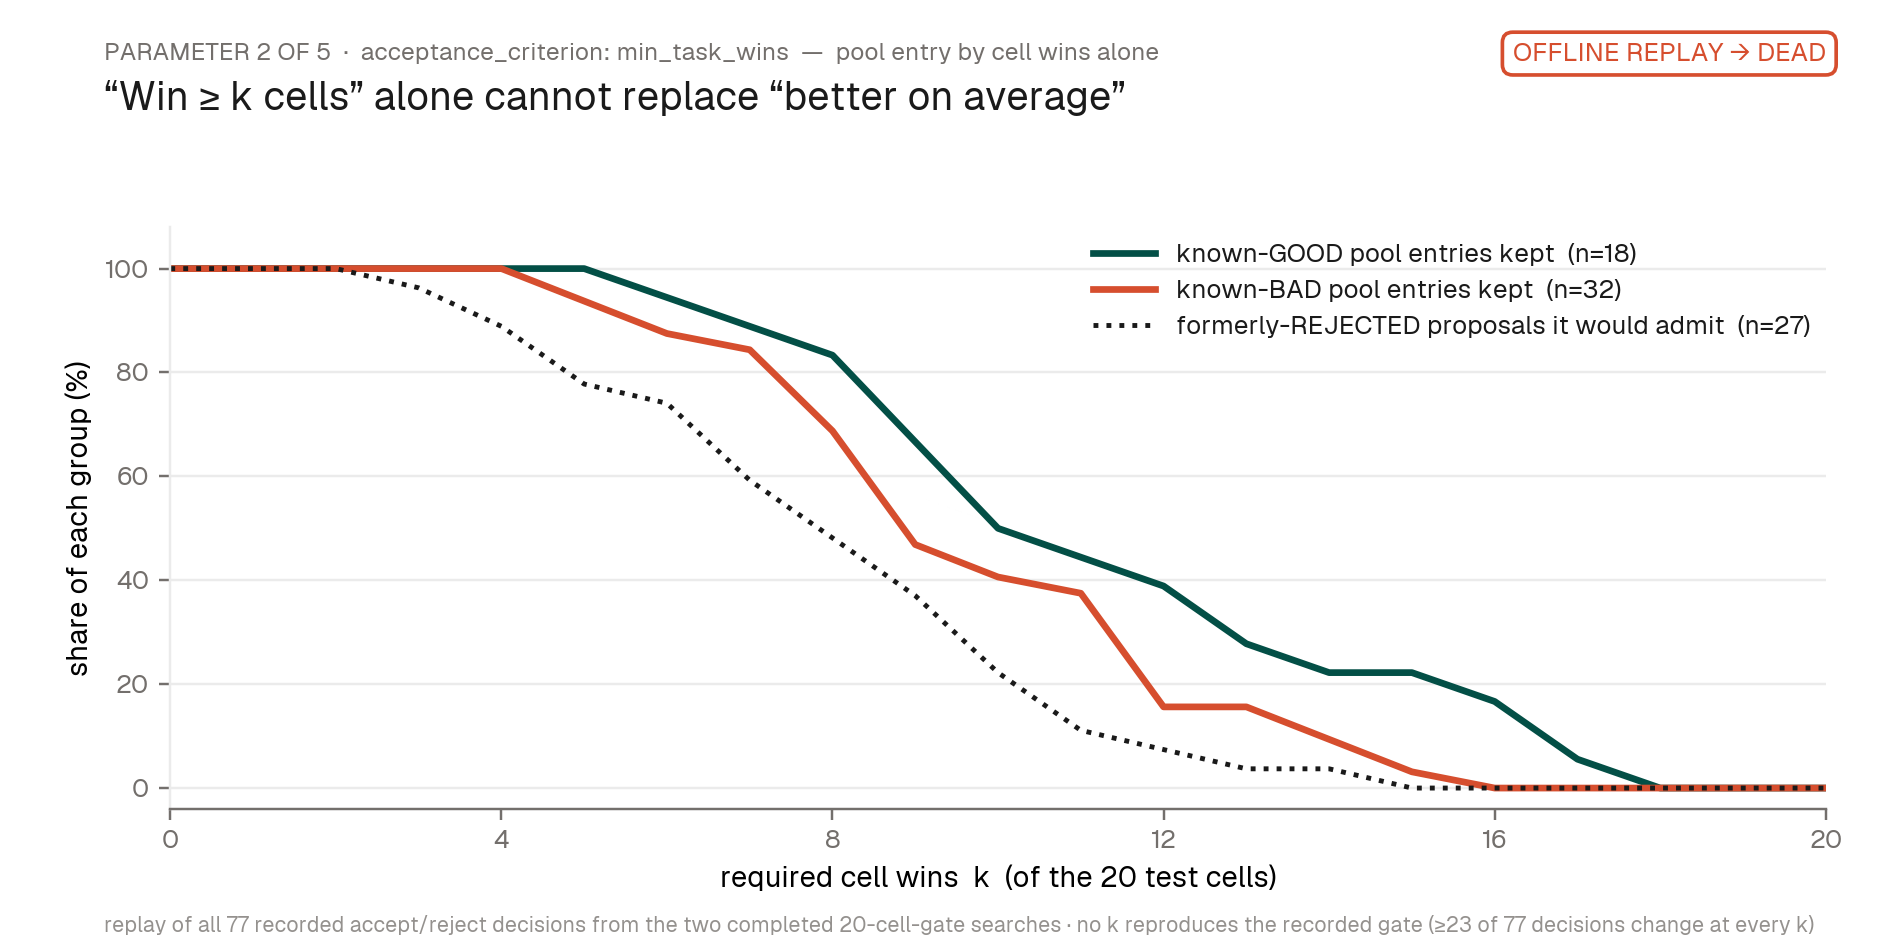
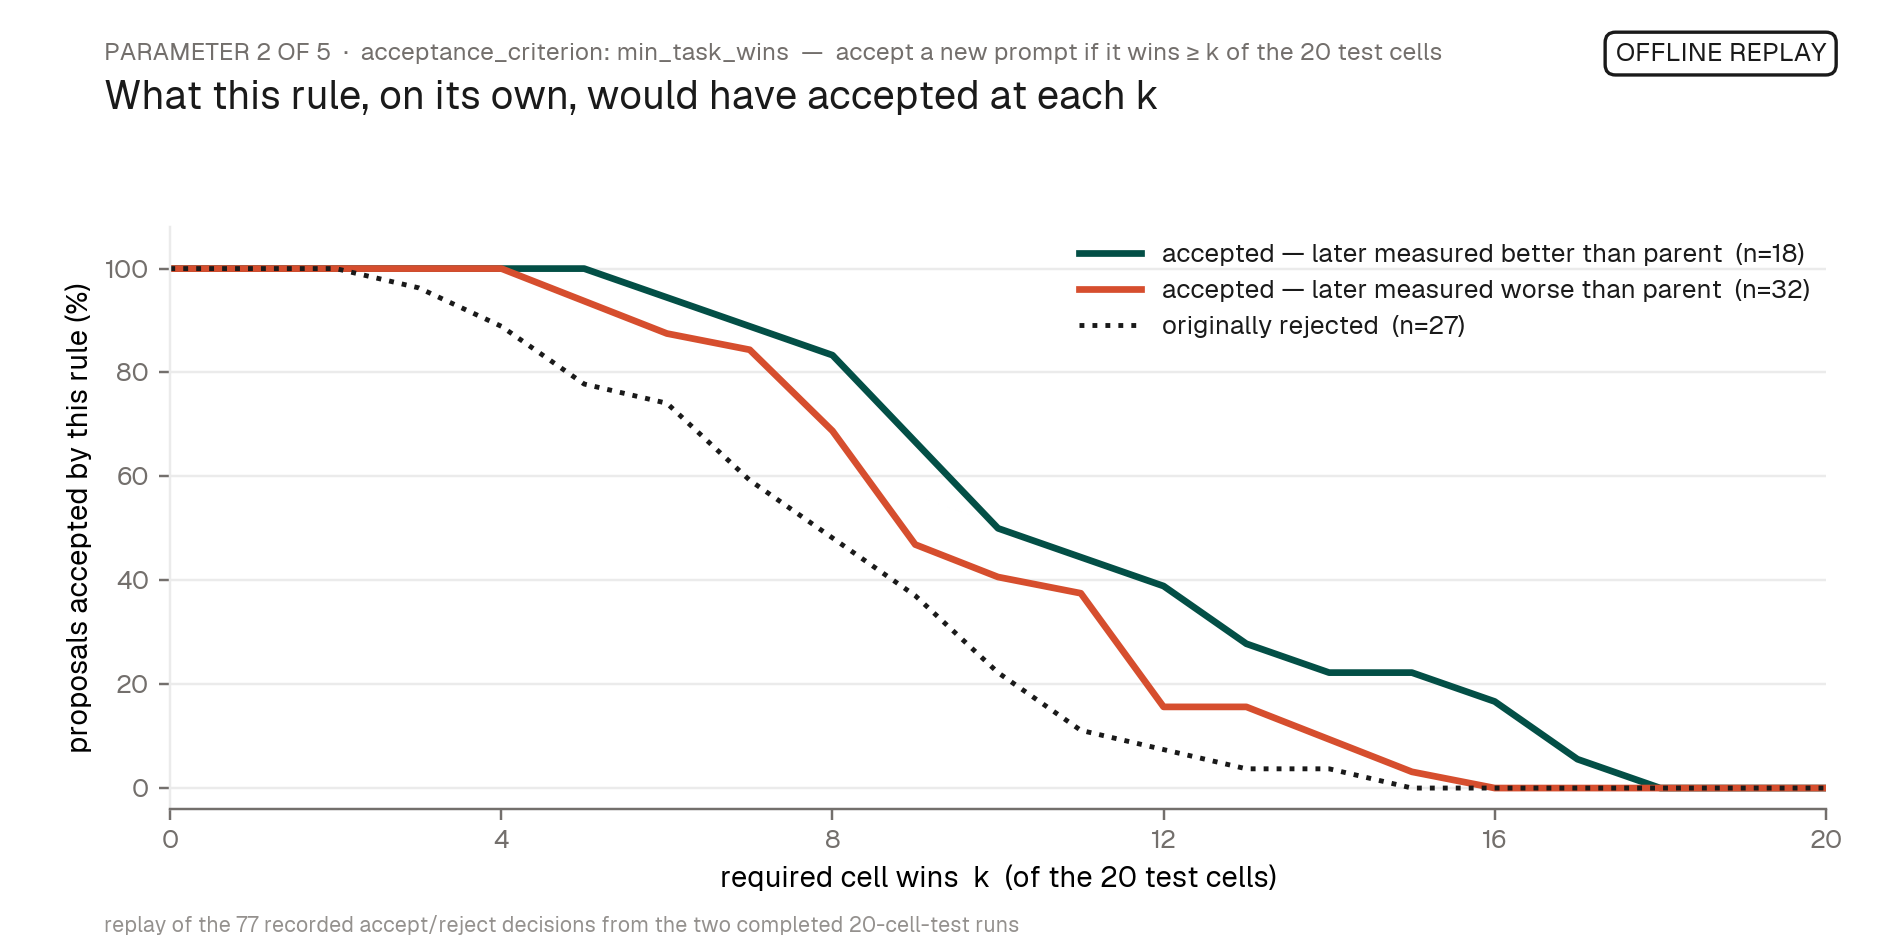
Sweep figures: neutral conference-style wording
Descriptive titles instead of verdict slogans, exact parameter name in the
header, precise axis labels, status chips reduced to offline replay /
completed live runs / live run planned, arm jargon removed, footers cut to
data definitions only.

diff --git a/intra_benchmark_calibration/experiments/III_gepa_optimization/summary/make_param_sweep_figs.py b/intra_benchmark_calibration/experiments/III_gepa_optimization/summary/make_param_sweep_figs.py
@@ -1,9 +1,9 @@
 #!/usr/bin/env python3
-"""fig12-16: one figure per search parameter in the points-4/5 sweep decision.
+"""fig12-16: one figure per search parameter considered for the next runs.
 
-Each figure answers one question, states online/offline in the corner chip,
-and reads from sweep_report_data.json (produced by gepa repo
-scripts/sweep_report_data.py — pure replay of the logged runs).
+Each figure names the exact parameter, states offline/online in the corner
+chip, and reads from sweep_report_data.json (produced by gepa repo
+scripts/sweep_report_data.py — a replay of the logged runs, no simulation).
 """
 import json
 from pathlib import Path
@@ -21,14 +21,14 @@ D = json.load(open(Path(__file__).parent / "sweep_report_data.json"))
 R1, R2 = "pilot_baseline", "pilot_baseline_clean"
 
 
-def header(fig, n, code, title, chip, chip_color):
+def header(fig, n, code, title, chip):
     fig.text(0.055, 0.955, f"PARAMETER {n} OF 5  ·  {code}",
              fontsize=8, color=MUTED, ha="left", va="top")
     fig.text(0.055, 0.915, title, fontsize=13, color=INK, ha="left", va="top",
              fontweight="bold")
-    fig.text(0.965, 0.955, chip, fontsize=8.5, color=chip_color, ha="right",
+    fig.text(0.965, 0.955, chip, fontsize=8.5, color=INK, ha="right",
              va="top", fontweight="bold",
-             bbox=dict(boxstyle="round,pad=0.4", fc="white", ec=chip_color, lw=1.2))
+             bbox=dict(boxstyle="round,pad=0.4", fc="white", ec=INK, lw=1.1))
 
 
 def footer(fig, text):
@@ -46,9 +46,9 @@ def clean_axes(ax):
 def fig12():
     fig, ax = plt.subplots(figsize=(8.6, 4.0), dpi=220)
     fig.subplots_adjust(top=0.76, bottom=0.20, left=0.10, right=0.965)
-    header(fig, 1, "n_train_tasks_per_iter  —  size of the accept/reject test",
-           "A 5× bigger accept test did not find a better prompt",
-           "LIVE RUNS · COMPLETE → SETTLED", INK)
+    header(fig, 1, "n_train_tasks_per_iter  —  number of cells in the accept/reject test",
+           "Best verified held-out gain, by size of the accept/reject test",
+           "COMPLETED LIVE RUNS")
     runs = D["gate_size"]["runs"]
     xs = range(3)
     for x, r in zip(xs, runs):
@@ -61,53 +61,53 @@ def fig12():
         else:
             ax.bar(x, 0.0004, width=0.52, color=HAIR, edgecolor=MUTED,
                    lw=1.0, ls="--")
-            ax.text(x, 0.0022, "no prompt beat the seed,\neven on the search set",
-                    ha="center", fontsize=9, color=VERM, fontweight="bold")
+            ax.text(x, 0.0022, "no prompt beat the seed;\nnothing to verify held-out",
+                    ha="center", fontsize=9, color=MUTED)
     ax.set_xticks(list(xs), ["20-cell test\nsearch run 1", "20-cell test\nsearch run 2",
-                             "100-cell test\none run · 5× cost per decision"],
+                             "100-cell test\none run"],
                   fontsize=9.5, color=INK)
     ax.set_ylim(0, 0.032)
     ax.set_ylabel("best verified held-out gain vs seed\n(Brier, higher = better)",
                   fontsize=9)
     clean_axes(ax); ax.tick_params(axis="x", length=0)
     footer(fig, "gain = paired mean Brier improvement vs the seed on the 230 held-out pairs, "
-                "≥3 paired passes (run-1 winner: 8)")
+                "≥3 paired passes")
     fig.savefig("fig12_sweep_gate_size.png")
     plt.close(fig)
 
 
 # ---------------------------------------------------------------- fig13/14
-def _accept_lines(ax, table, pooled, admit_label):
+def _accept_lines(ax, table, pooled, reject_label):
     ks = list(range(0, 21))
     g = [100 * table[str(k)]["good_kept"] / pooled["n_good"] for k in ks]
     b = [100 * table[str(k)]["bad_kept"] / pooled["n_bad"] for k in ks]
     a = [100 * table[str(k)]["rejects_admitted"] / pooled["n_reject"] for k in ks]
     ax.plot(ks, g, color=GREEN, lw=2.2,
-            label=f"known-GOOD pool entries kept  (n={pooled['n_good']})")
+            label=f"accepted — later measured better than parent  (n={pooled['n_good']})")
     ax.plot(ks, b, color=VERM, lw=2.2,
-            label=f"known-BAD pool entries kept  (n={pooled['n_bad']})")
-    ax.plot(ks, a, color=INK, lw=1.6, ls=":", label=admit_label)
+            label=f"accepted — later measured worse than parent  (n={pooled['n_bad']})")
+    ax.plot(ks, a, color=INK, lw=1.6, ls=":", label=reject_label)
     ax.legend(loc="upper right", frameon=False, fontsize=8.5,
               handlelength=2.4, labelcolor=INK, borderaxespad=0.2)
     ax.set_xlim(0, 20); ax.set_ylim(-4, 108)
     ax.set_xticks(range(0, 21, 4))
     ax.set_xlabel("required cell wins  k  (of the 20 test cells)", fontsize=9.5)
-    ax.set_ylabel("share of each group (%)", fontsize=9.5)
+    ax.set_ylabel("proposals accepted by this rule (%)", fontsize=9.5)
 
 
 def fig13():
     fig, ax = plt.subplots(figsize=(8.6, 4.3), dpi=220)
     fig.subplots_adjust(top=0.76, bottom=0.145, left=0.09, right=0.965)
-    header(fig, 2, "acceptance_criterion: min_task_wins  —  pool entry by cell wins alone",
-           "“Win ≥ k cells” alone cannot replace “better on average”",
-           "OFFLINE REPLAY → DEAD", VERM)
+    header(fig, 2, "acceptance_criterion: min_task_wins  —  accept a new prompt "
+                   "if it wins ≥ k of the 20 test cells",
+           "What this rule, on its own, would have accepted at each k",
+           "OFFLINE REPLAY")
     A = D["acceptance"]
     _accept_lines(ax, A["wins_only"], A["pooled"],
-                  f"formerly-REJECTED proposals it would admit  (n={A['pooled']['n_reject']})")
+                  f"originally rejected  (n={A['pooled']['n_reject']})")
     clean_axes(ax)
-    footer(fig, "replay of all 77 recorded accept/reject decisions from the two completed "
-                "20-cell-gate searches · no k reproduces the recorded gate (≥23 of 77 "
-                "decisions change at every k)")
+    footer(fig, "replay of the 77 recorded accept/reject decisions from the two completed "
+                "20-cell-test runs")
     fig.savefig("fig13_sweep_wins_only_gate.png")
     plt.close(fig)
 
@@ -115,19 +115,18 @@ def fig13():
 def fig14():
     fig, ax = plt.subplots(figsize=(8.6, 4.3), dpi=220)
     fig.subplots_adjust(top=0.76, bottom=0.145, left=0.09, right=0.965)
-    header(fig, 3, "aggregate_sum_and_min_task_wins  —  current rule AND ≥ k cell wins",
-           "Tighter pool entry, admits nothing new — only a live run can judge it",
-           "OFFLINE REPLAY → LIVE RUN · ARM A", GREEN)
+    header(fig, 3, "aggregate_sum_and_min_task_wins  —  current rule AND wins ≥ k of 20",
+           "What the combined rule would have accepted at each k",
+           "OFFLINE REPLAY · LIVE RUN PLANNED")
     A = D["acceptance"]
     _accept_lines(ax, A["joint"], A["pooled"],
-                  "formerly-rejected admitted — 0 at every k")
+                  "originally rejected — none accepted, at any k")
     ax.axvline(8, color=GREEN, lw=1.2, ls="--", ymax=0.88)
-    ax.text(8, 103, "arm A:  k = 8\nkeeps 15/18 good · cuts 10/32 bad",
+    ax.text(8, 103, "k = 8 · planned live run",
             fontsize=8.5, color=GREEN, ha="center", fontweight="bold")
     clean_axes(ax)
-    footer(fig, "same replay as parameter 2 · the added condition only tightens: it can "
-                "block accepts, never admit rejects · whether tighter breeding helps is "
-                "path-dependent → live run")
+    footer(fig, "same replay as parameter 2 · the added condition can only reject more than "
+                "the current rule, never accept more")
     fig.savefig("fig14_sweep_joint_gate.png")
     plt.close(fig)
 
@@ -136,12 +135,12 @@ def fig14():
 def fig15():
     fig, axes = plt.subplots(2, 1, figsize=(8.6, 4.8), dpi=220, sharex=True)
     fig.subplots_adjust(top=0.74, bottom=0.22, left=0.055, right=0.965, hspace=0.35)
-    header(fig, 4, "n_cells_won_needed_for_pareto_frontier  —  bar to be bred (parent eligibility)",
-           "The eligibility bar removes verified winners before verified losers",
-           "OFFLINE REPLAY → DEAD", VERM)
-    fig.text(0.5, 0.795, "a bar at k makes every prompt LEFT of k ineligible for breeding "
-             "— the current setting (k = 1) keeps all", fontsize=8.5, color=MUTED,
-             ha="center")
+    header(fig, 4, "n_cells_won_needed_for_pareto_frontier  —  minimum cells won "
+                   "to be eligible as a parent",
+           "Cells won per prompt vs. its verified held-out gain",
+           "OFFLINE REPLAY")
+    fig.text(0.5, 0.795, "prompts with fewer than k cells won are ineligible as parents "
+             "(current setting: k = 1)", fontsize=8.5, color=MUTED, ha="center")
     for ax, run, row_label in ((axes[0], R1, "search run 1"), (axes[1], R2, "search run 2")):
         F = D["frontier"][run]
         verified = {int(i): d for i, d in F["sealed_candidates"].items()}
@@ -161,12 +160,11 @@ def fig15():
         ax.spines[["top", "right", "left"]].set_visible(False)
         ax.spines["bottom"].set_color(MUTED)
         ax.tick_params(colors=MUTED, labelsize=8.5)
-    axes[1].set_xlabel("cells where the prompt is the current best  (of 84 search cells)",
+    axes[1].set_xlabel("cells where the prompt is the current best  (of the 84 search-set cells)",
                        fontsize=9.5)
-    footer(fig, "dot = held-out-verified prompt, labeled with its gain vs seed · gray tick = "
-                "never held-out-measured\nany k ≥ 4 removes a +0.014 winner while keeping a "
-                "−0.007 prompt to k = 13 · k = 2 leaves both runs unchanged until iteration "
-                "34 / 28 of 40, then unknown")
+    footer(fig, "dot = prompt measured held-out (label: gain vs seed) · gray tick = never "
+                "measured held-out · at k = 2 both runs are unchanged through iteration "
+                "34 / 28 of 40")
     fig.savefig("fig15_sweep_frontier_bar.png")
     plt.close(fig)
 
@@ -175,9 +173,9 @@ def fig15():
 def fig16():
     fig, axes = plt.subplots(1, 2, figsize=(8.6, 4.8), dpi=220, sharey=True)
     fig.subplots_adjust(top=0.74, bottom=0.16, left=0.09, right=0.965, wspace=0.14)
-    header(fig, 5, "pareto_instance: model_bin  —  what prompts compete on for breeding rights",
-           "Group-level competition reshuffles breeding — evidence points both ways",
-           "OFFLINE REPLAY → LIVE RUN · ARM B", GREEN)
+    header(fig, 5, "pareto_instance: model_bin  —  what parents are scored on",
+           "Parent-selection weight under the two instance definitions",
+           "OFFLINE REPLAY · LIVE RUN PLANNED")
     for ax, run, panel in ((axes[0], R1, "search run 1"), (axes[1], R2, "search run 2")):
         P = D["pareto_instance"][run]
         cw, gw = P["cell_wins"], P["group_wins"]
@@ -185,11 +183,10 @@ def fig16():
         sealed = {int(i): v for i, v in P["sealed"].items()}
         n_cand = max(int(i) for i in list(cw) + list(gw)) + 1
         for i in range(1, n_cand):
-            x0 = 100 * cw.get(str(i), 0) / tc
-            x1 = 100 * gw.get(str(i), 0) / tg
             if i in sealed:
                 continue
-            ax.plot([0, 1], [x0, x1], color=SOFT, lw=0.9, alpha=0.55)
+            ax.plot([0, 1], [100 * cw.get(str(i), 0) / tc, 100 * gw.get(str(i), 0) / tg],
+                    color=SOFT, lw=0.9, alpha=0.55)
         labels = []
         for i, gain in sorted(sealed.items(), key=lambda kv: -kv[1]):
             x0 = 100 * cw.get(str(i), 0) / tc
@@ -198,7 +195,6 @@ def fig16():
             ax.plot([0, 1], [x0, x1], color=c, lw=2.4, zorder=3)
             ax.plot([0, 1], [x0, x1], "o", ms=6, color=c, zorder=4)
             labels.append((x0, f"{gain:+.3f}", c))
-        # de-overlap left-side gain labels
         labels.sort(key=lambda t: t[0])
         ys = []
         for y, _t, _c in labels:
@@ -207,20 +203,18 @@ def fig16():
             ys.append(y)
         for (y0, t, c), y in zip(labels, ys):
             ax.annotate(t, (0, y0), xytext=(-0.07, y), ha="right", va="center",
-                        fontsize=8.5, color=c, fontweight="bold",
-                        arrowprops=None)
+                        fontsize=8.5, color=c, fontweight="bold")
         ax.set_xlim(-0.45, 1.25); ax.set_ylim(-1.5, 30)
         ax.set_xticks([0, 1], ["84 single\ncells", "20 (model ×\ndifficulty) groups"],
                       fontsize=9, color=INK)
         ax.set_title(panel, fontsize=9.5, color=INK, pad=8)
         clean_axes(ax); ax.tick_params(axis="x", length=0)
-    axes[0].set_ylabel("share of breeding-lottery tickets (%)", fontsize=9.5)
-    axes[0].text(0.03, 0.985, "one line = one prompt · label = its verified held-out gain vs seed",
+    axes[0].set_ylabel("share of parent-selection weight (%)", fontsize=9.5)
+    axes[0].text(0.03, 0.985, "one line = one prompt · label = its measured held-out gain vs seed",
                  transform=axes[0].transAxes, fontsize=7.5, color=SOFT, va="top")
-    footer(fig, "run 1: grouping promotes the +0.027 champion (15 → 25% of tickets) but zeroes "
-                "the +0.014 and +0.005 prompts and lifts a −0.007 prompt (6 → 10%)\n"
-                "run 2: the only verified winner (+0.016) drops to zero — "
-                "unverified prompts take over the lottery")
+    footer(fig, "run 1: the +0.027 prompt rises 15 → 25%; the +0.014 and +0.005 prompts drop "
+                "to 0; the −0.007 prompt rises 6 → 10%\n"
+                "run 2: the only prompt measured better than the seed (+0.016) drops to 0")
     fig.savefig("fig16_sweep_pareto_instance.png")
     plt.close(fig)
 
